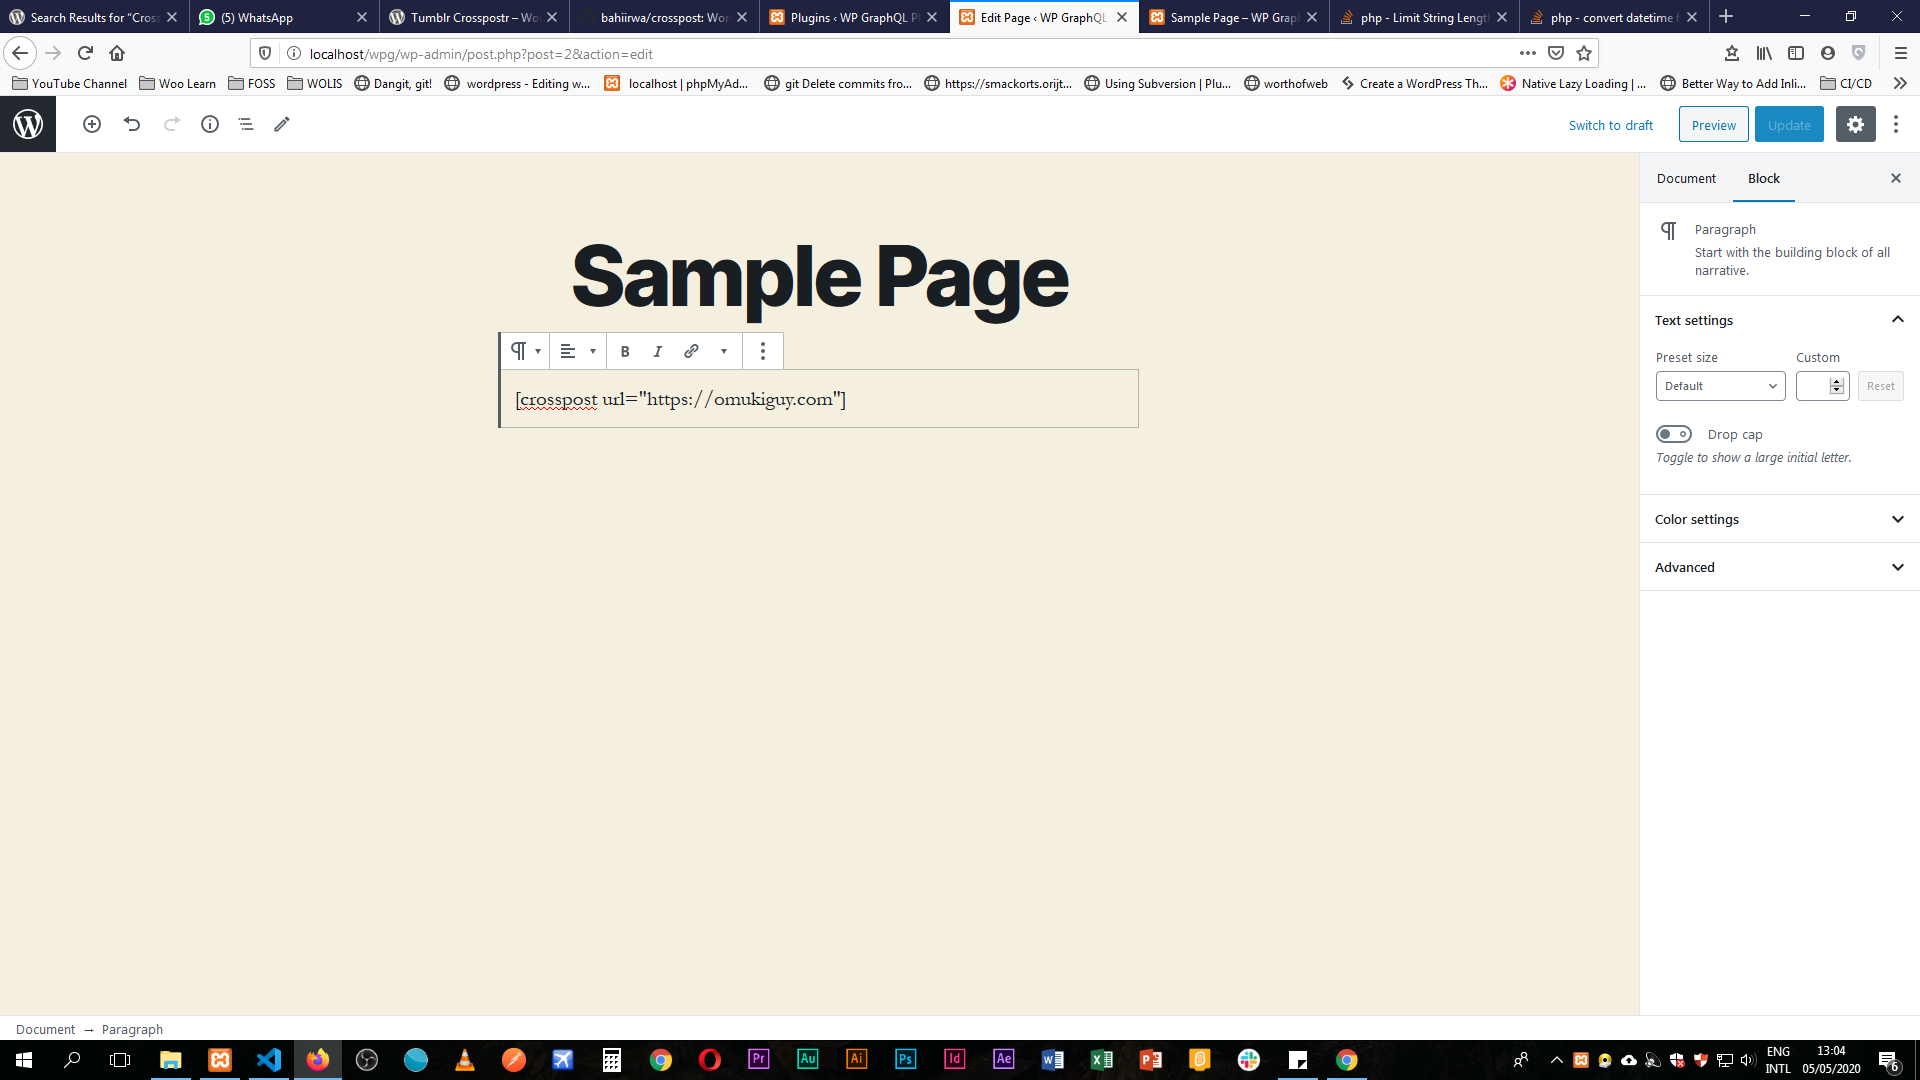
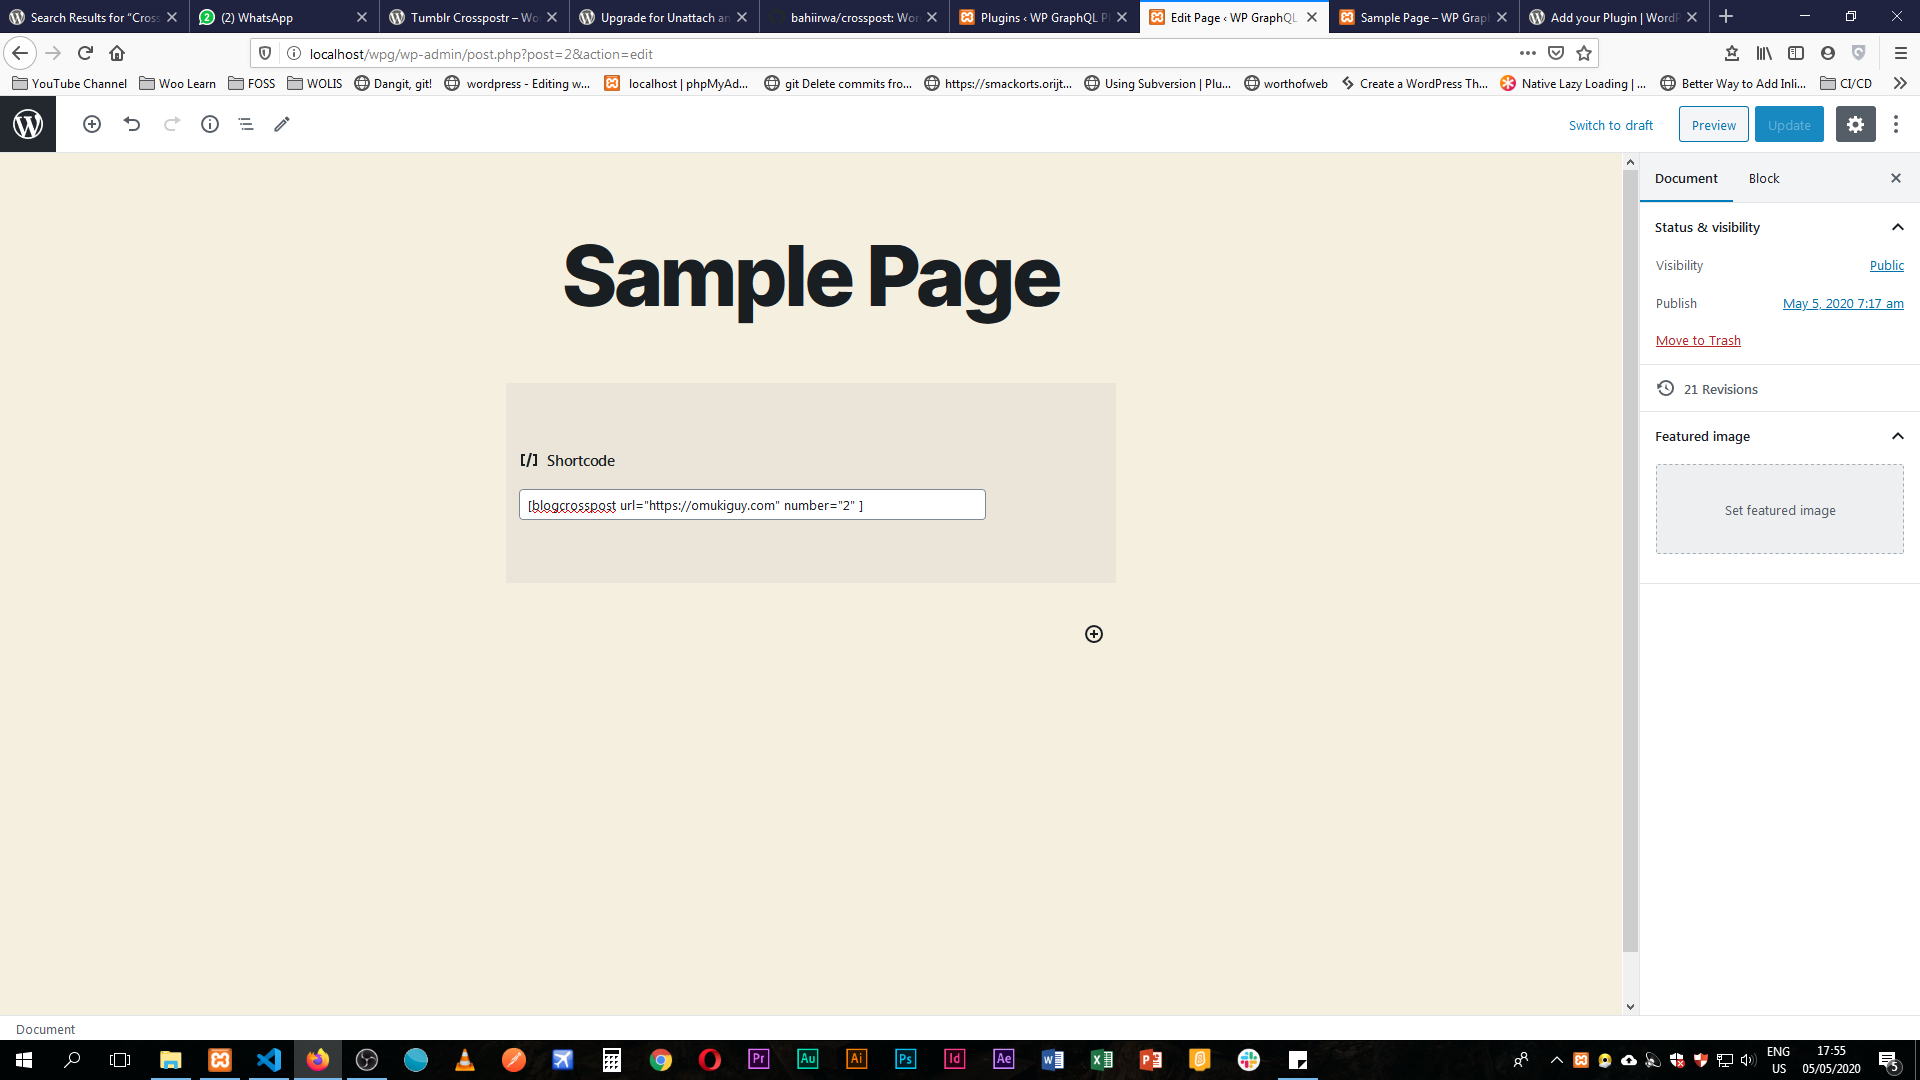
Plugin Name change

diff --git a/blog-crosspost.php b/blog-crosspost.php
@@ -1,12 +1,12 @@
 <?php
 /**
- * Plugin Name: Crosspost
- * Description: Automatically add posts from another WordPress website using a shortcode. like [crosspost url="example.com"]
+ * Plugin Name: Blog Crosspost
+ * Description: Automatically add posts from another WordPress website using a shortcode. like [blogcrosspost url="example.com"]
  * Version: 0.1.0
  * Author: Laurence Bahiirwa 
  * Author URI: https://omukiguy.com
- * Plugin URI: https://github.com/bahiirwa/crosspost
- * Text Domain: crosspost
+ * Plugin URI: https://github.com/bahiirwa/blogcrosspost
+ * Text Domain: blogcrosspost
  * Requires at least: 4.9
  * Tested up to: 5.4.1
  * 
@@ -17,14 +17,14 @@
  *
  */
 
-namespace bahiirwa\Crosspost;
+namespace bahiirwa\Blogcrosspost;
 
 // Prevent direct access.
 if ( ! defined( 'ABSPATH' ) ) {
 	die();
 }
 
-class Crosspost {
+class Blogcrosspost {
 	/**
 	 * Add action to process shortcodes.
 	 *
@@ -33,7 +33,7 @@ class Crosspost {
 	 *
 	 */
 	public static function register() {
-		add_shortcode( 'crosspost', [ __CLASS__, 'process_shortcode' ] );
+		add_shortcode( 'blogcrosspost', [ __CLASS__, 'process_shortcode' ] );
 	}
 
 	/**
@@ -60,19 +60,19 @@ class Crosspost {
 		$atts = shortcode_atts(
 			$defaults,
 			$atts,
-			'crosspost'
+			'blogcrosspost'
 		);
 
 		// Validate the user and the repo.
 		if ( empty( $atts['url'] ) ) {
-			return '<p>[crosspost] Missing URL</p>';
+			return '<p>[blogcrosspost] Missing URL</p>';
 		}
 
 		// Get the release data from External Website.
 		$release_data = self::get_release_data_cached( $atts );
 		if ( is_wp_error( $release_data ) ) {
 			return (
-				'<!-- [crosspost] '
+				'<!-- [blogcrosspost] '
 				. esc_html( $release_data->get_error_message() )
 				. ' -->'
 			);
@@ -85,7 +85,7 @@ class Crosspost {
 			if ( $atts['number'] == $count++ ) break;
 			
 			$html .= (
-				'<div class="crosspost-plugin" id="' . esc_attr( $data['id'] ) . '">' .
+				'<div class="blogcrosspost-plugin" id="' . esc_attr( $data['id'] ) . '">' .
 					'<img class="featured-image" src="' . esc_url( $data['featured_image_src'] ) . '" />' .
 					'<h3>' . esc_attr( $data['title']['rendered'] ) . '</h3>' .
 					'<div class="content">' . esc_attr( self::reduce_content( $data['content']['rendered'], $atts['characters'] ) ) . '</div>' .
@@ -107,7 +107,7 @@ class Crosspost {
 		 * @param string $html The link HTML.
 		 * @param array  $atts The full array of shortcode attributes.
 		 */
-		return apply_filters( 'crosspost_link', $html, $atts );
+		return apply_filters( 'blogcrosspost_link', $html, $atts );
 	}
 
 	/**
@@ -176,7 +176,7 @@ class Crosspost {
 	 */
 	public static function get_transient_name( $atts ) {
 		return (
-			'crosspost_link_'
+			'blogcrosspost_link_'
 			. substr( md5( $atts['url'] ), 0, 16 )
 		);
 	}
@@ -225,4 +225,4 @@ class Crosspost {
 
 }
 
-Crosspost::register();
+blogcrosspost::register();

diff --git a/Readme.md b/Readme.md
@@ -1,21 +1,21 @@
-# Crosspost
+# Blog Crosspost
 Automatically add posts from another WordPress website using a shortcode.
 
 # Usage
-Add the shortcode ```[crosspost url="example.com"]``` to desired post/page/widget and save to have the code working.
+Add the shortcode ```[blogcrosspost url="example.com"]``` to desired post/page/widget and save to have the code working.
 
 ## Options
 One can add some customization to the shortcode such as":
 
-* Link to external website = ```[crosspost url="example.com"]```
-* Number of Posts to show  = ```[crosspost postnumber="3"]```
-* Name for the Readme link = ```[crosspost readmoretext="Learn More"]```
+* Link to external website = ```[blogcrosspost url="example.com"]```
+* Number of Posts to show  = ```[blogcrosspost postnumber="3"]```
+* Name for the Readme link = ```[blogcrosspost readmoretext="Learn More"]```
 
 or use all of them in one go as:
 
-```[crosspost url="example.com" postnumber="3" readmoretext="Learn More"]```
+```[blogcrosspost url="example.com" postnumber="3" readmoretext="Learn More"]```
 
-You can also change the HTML structure using ```apply_filters( 'crosspost_link', $html, $atts );```
+You can also change the HTML structure using ```apply_filters( 'blogcrosspost_link', $html, $atts );```
 
 ## Screenshots
 ![Adding the shortcode into WordPress Page](screnshot-1.png)
@@ -28,7 +28,7 @@ You can also change the HTML structure using ```apply_filters( 'crosspost_link',
 - [ ] Add a Gutenberg Block.
 
 ## Contribute/Issues/Feedback
-If you have any feedback, just write an issue. Or fork the code and submit a PR [on Github](https://github.com/bahiirwa/crosspost).
+If you have any feedback, just write an issue. Or fork the code and submit a PR [on Github](https://github.com/bahiirwa/blogcrosspost).
 
 ## Changelog
 
